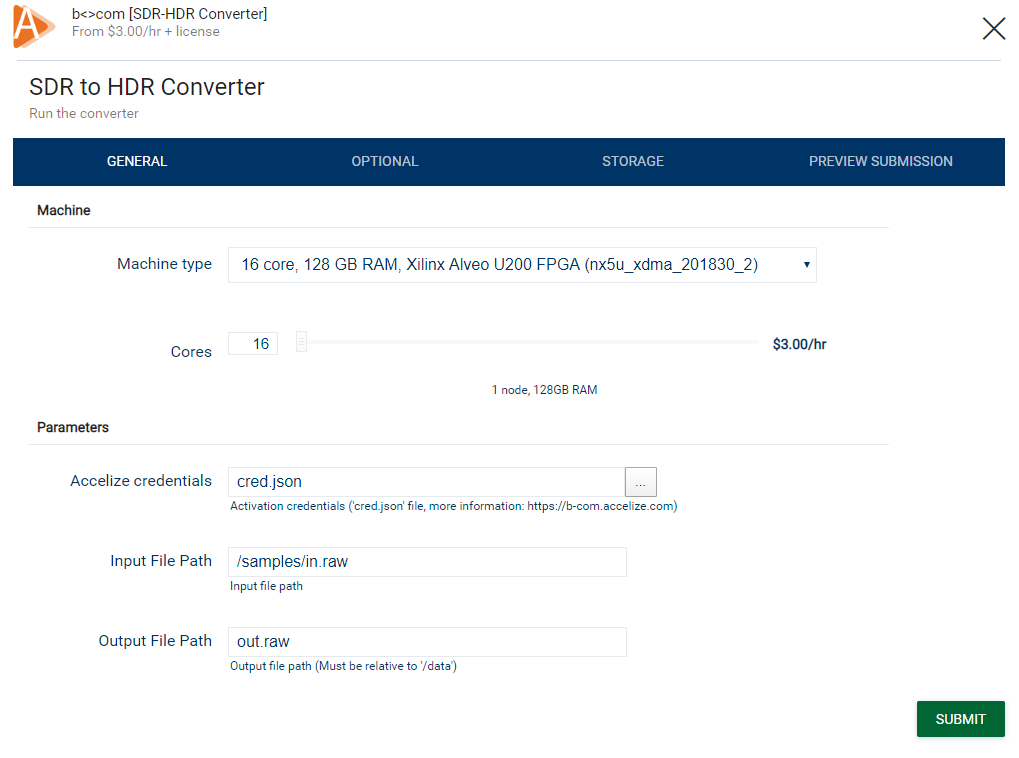
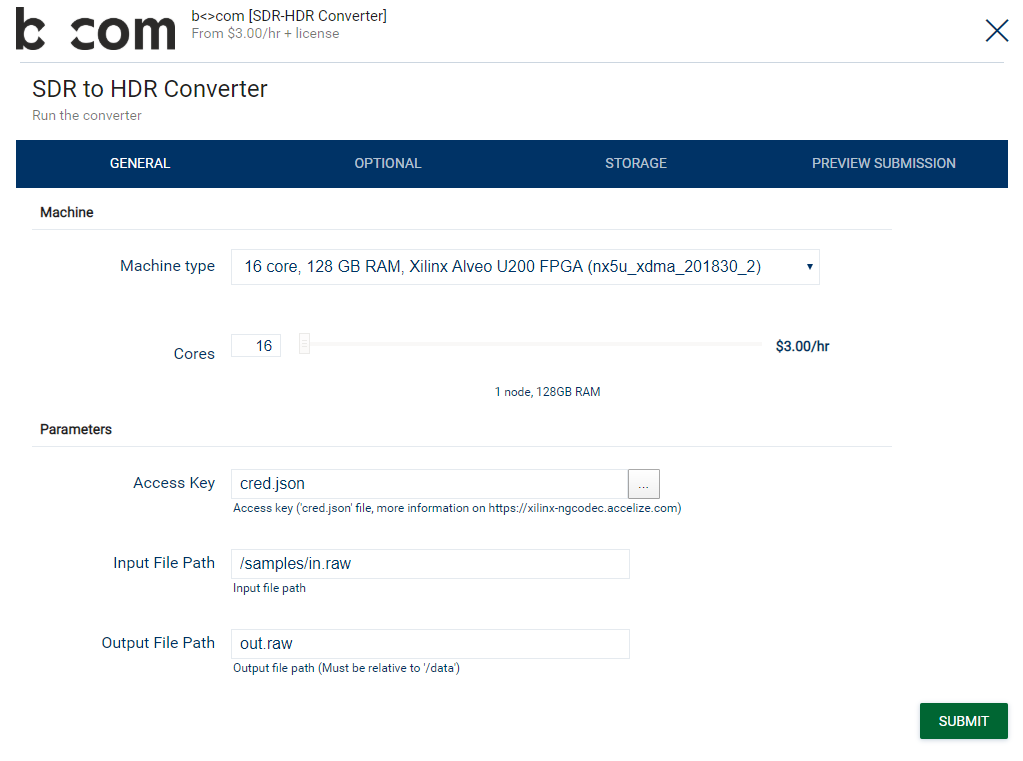
Misc fixes + updated content for new AK upload on Nimbix

diff --git a/host_setup.py b/host_setup.py
@@ -305,11 +305,15 @@ def install_DockerCE():
     cmd = 'curl -fsSL https://get.docker.com | sudo sh > /tmp/xxappstore_hostsetup_installdocker.log 2>&1'
     ret, out, err = exec_cmd_with_ret_output(cmd)
     if ret:
-        print(out)
-        print(err)
-        print('[ERROR] Docker Installation. Check log file /tmp/xxappstore_hostsetup_installdocker.log')
+        #print('[ERROR] Docker Installation. Check log file /tmp/xxappstore_hostsetup_installdocker.log')
+        print('[ERROR] Unable to install DockerCE using Docker automated script.\nPlease install DockerCE manually following this documentation:')
+        print(' > [CENTOS] https://docs.docker.com/install/linux/docker-ce/centos/')
+        print(' > [UBUNTU] https://docs.docker.com/install/linux/docker-ce/ubuntu/')
         sys.exit(1)
 
+
+
+https://docs.docker.com/install/linux/docker-ce/ubuntu/
 
 def configure_DockerCE():
     cmd = 'sudo mkdir -p /etc/docker && echo \'{\"max-concurrent-downloads\": 1}\' | sudo tee -a /etc/docker/daemon.json && sudo systemctl restart docker && sudo systemctl enable docker > /tmp/xxappstore_hostsetup_configuredocker.log 2>&1 && sudo usermod -aG docker $USER'
@@ -469,7 +473,7 @@ def run_setup(skip, vendor, appname):
         print(f" > You must provide application vendor and name from following list:")
         for app in appcatalog['apps']:
             print_status(f"\t{app['appvendor'].lower()}", f"{app['appname'].lower()}", 20)
-        print(f" > e.g: python3.6 host_setup.py -v ngcodec -a hevc_enc_dual\n")
+        print(f" > e.g: python3.6 /opt/xilinx/appstore/host_setup.py -v ngcodec -a hevc_enc_dual\n")
         sys.exit(1)
     
     appdef_path=''

diff --git a/README.md b/README.md
@@ -6,6 +6,12 @@
 curl -sL https://tinyurl.com/getHostSetup | sudo bash
 ````
 
+*Note*: Verbose version:
+````bash
+curl -sL https://tinyurl.com/getHostSetupVerbose | sudo bash
+````
+
+
 ## Run the Host Setup Script
 Run the host setup script with **vendor_name** and **app_name** arguments
 ````bash
